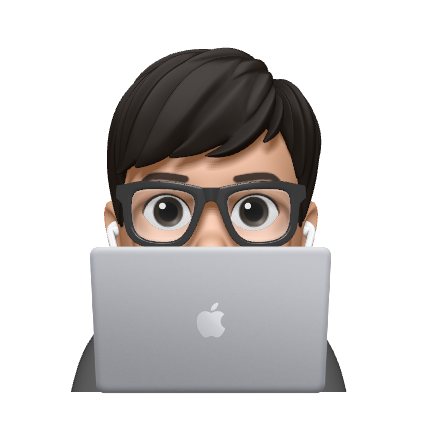
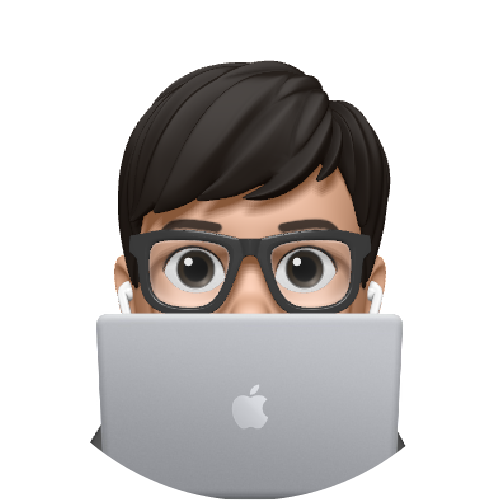
theme improvements

diff --git a/components/index/HeaderSection.js b/components/index/HeaderSection.js
@@ -27,7 +27,7 @@ function HeaderSection() {
             as="h6"
             variant="pronouns"
             opacity={0.9}
-            color={useColorModeValue('purple.600', 'teal.200')}
+            color={useColorModeValue('purple.600', '#FF7B82')}
             _hover={{ animation }}
           >
             he/him/his
@@ -38,9 +38,9 @@ function HeaderSection() {
         </Box>
         <Box flexShrink={0} mt={{ base: 4, md: 0 }} ml={{ md: 6 }} align="center">
           <Image
-            borderColor="whiteAlpha.800"
-            backgroundColor={useColorModeValue('purple.100', 'teal.100')}
-            borderWidth={4}
+            borderColor={useColorModeValue('white', "#FEF6E5")}
+            backgroundColor={useColorModeValue('purple.100', 'red.200')}
+            borderWidth={6}
             borderStyle="solid"
             maxWidth="160px"
             display="inline-block"
@@ -53,7 +53,7 @@ function HeaderSection() {
               transform: 'scale(1.05)',
               boxShadow: 'xl',
               transition: '250ms',
-              borderColor: useColorModeValue('purple.300', 'teal.400'),
+              borderColor: useColorModeValue('purple.300', 'red.300'),
             }}
           />
         </Box>
@@ -61,7 +61,7 @@ function HeaderSection() {
       <Box
         borderRadius="lg"
         // TODO: See if this is good
-        bg={useColorModeValue('rgba(121, 96, 206, 0.3)', 'rgba(56,178,172, 0.3)')}
+        bg={useColorModeValue('rgba(121, 96, 206, 0.3)', '#FEF6E511')}
         fontSize={16}
         p={3}
         mb={6}

diff --git a/components/grid-item.js b/components/grid-item.js
@@ -107,11 +107,11 @@ export const ProjectsGridItemIndex = ({ id, title, desc, thumbnail, sourcelink, 
         ) : (
           <NextLink href={sourcelink} passHref>
             <Link
-              color={useColorModeValue('purple.500', 'teal.200')}
+              color={useColorModeValue('purple.500', 'red.300')}
               transitionDuration="500ms"
               textDecoration="none"
               _hover={{
-                color: useColorModeValue('purple.100', 'teal.100'),
+                color: useColorModeValue('purple.100', 'red.200'),
                 transitionDuration: '500ms',
                 textDecoration: 'underline',
                 textUnderlineOffset: 3,
@@ -129,10 +129,10 @@ export const ProjectsGridItemIndex = ({ id, title, desc, thumbnail, sourcelink, 
         ) : (
           <NextLink href={bloglink} passHref>
             <Link
-              color={useColorModeValue('purple.500', 'teal.200')}
+              color={useColorModeValue('purple.500', 'red.300')}
               textDecoration="none"
               _hover={{
-                color: useColorModeValue('purple.100', 'teal.100'),
+                color: useColorModeValue('purple.100', 'red.200'),
                 transitionDuration: '500ms',
                 textDecoration: 'underline',
                 textUnderlineOffset: 3,

diff --git a/components/nav.js b/components/nav.js
@@ -23,10 +23,10 @@ import ThemeButton from './theme-button'
 
 function LinkItem({ href, path, children }) {
   const active = path === href
-  const inactiveColor = useColorModeValue('gray200', 'whiteAlpha.900')
+  const inactiveColor = useColorModeValue('gray200', '#FEF6E5')
   const activeBackgroundColor = useColorModeValue(
     'rgba(121, 96, 206, 0.3)',
-    'rgba(56,178,172, 0.3)'
+    '#FF7B8230'
   )
   return (
     <NextLink href={href}>
@@ -41,7 +41,7 @@ function LinkItem({ href, path, children }) {
         _hover={{
           transform: 'scale(1.1)',
           opacity: useColorModeValue(0.6, 1),
-          color: useColorModeValue('purple', 'teal.300'),
+          color: useColorModeValue('purple', '#FE5B5E'),
         }}
       >
         {children}
@@ -111,10 +111,10 @@ function Navbar(props) {
             _hover={{
               transform: 'scale(1.1)',
               opacity: useColorModeValue(0.6, 1),
-              color: useColorModeValue('purple', 'teal.200'),
+              color: useColorModeValue('purple', '#FE5B5E'),
               transition: '250ms ease-in-out',
             }}
-            color={useColorModeValue('gray200', 'whiteAlpha.900')}
+            color={useColorModeValue('gray200', '#FEF6E5')}
           >
             Resume
           </Link>

diff --git a/components/index/ContactSection.js b/components/index/ContactSection.js
@@ -15,10 +15,9 @@ function SocialLinks({ icon, platform, href = '#', id }) {
           letterSpacing="1.2px"
           textTransform="uppercase"
           ml={2}
-          opacity={0.8}
-          color={useColorModeValue('purple.800', 'teal.200')}
+          color={useColorModeValue('#37352F', '#FEF6E5')}
         >
-          {platform}
+          {platform}:
         </Text>
         <NextLink href={href} passHref>
           <Link
@@ -48,7 +47,9 @@ function ContactSection() {
         variant="section-title"
         mt="45px"
         mb="20px"
-        textDecorationColor={useColorModeValue('rgba(121, 96, 206, 0.3)', 'rgba(56,178,172, 0.5)')}
+        textDecorationThickness={1.5}
+        textUnderlineOffset={3}
+        textDecorationColor={useColorModeValue('rgba(121, 96, 206, 0.3)', '#FE5B5E80')}
       >
         Socials
       </Heading>

diff --git a/components/linkButton.js b/components/linkButton.js
@@ -9,12 +9,12 @@ const LinkButton = ({ children, link }) => (
         variant="new-tab-action"
         rightIcon={<ChevronRightIcon />}
         _hover={{
-          bgColor: useColorModeValue('rgba(121, 96, 206, 0.5)', 'rgba(56,178,172, 0.5)'),
+          bgColor: useColorModeValue('rgba(121, 96, 206, 0.5)', '#FE5B5E80'),
           transform: 'scale(1.05)',
           boxShadow: `lg`,
         }}
-        bgColor={useColorModeValue('rgba(121, 96, 206, 0.3)', 'rgba(56,178,172, 0.3)')}
-        borderColor={useColorModeValue('rgba(121, 96, 206, 0.4)', 'rgba(56,178,172, 0.4)')}
+        bgColor={useColorModeValue('rgba(121, 96, 206, 0.3)', '#FE5B5E4D')}
+        borderColor={useColorModeValue('rgba(121, 96, 206, 0.4)', '#FE5B5E66')}
       >
         {children}
       </Button>

diff --git a/components/index/ExperienceSection.js b/components/index/ExperienceSection.js
@@ -44,7 +44,7 @@ function ExItem() {
     <>
       <Box p={2}>
         <Center>
-          <ExpText activeIndex={index} testIndex={0} text="Hover icons for more" />
+          <ExpText activeIndex={index} testIndex={0} text="Click/Hover icons for more" />
           <ExpText
             activeIndex={index}
             testIndex={1}
@@ -92,7 +92,7 @@ export function ExperienceSection() {
         variant="pronouns"
         textDecor="underline"
         textUnderlineOffset={4}
-        textDecorationColor={useColorModeValue('rgba(121, 96, 206, 0.3)', 'rgba(56,178,172, 0.5)')}
+        textDecorationColor={useColorModeValue('rgba(121, 96, 206, 0.3)', '#FE5B5E80')}
         textAlign="center"
         fontSize={14}
       >

diff --git a/libs/theme.js b/libs/theme.js
@@ -6,7 +6,7 @@ const styles = {
   global: props => ({
     body: {
       bg: mode('#FAFAFA', '#191919')(props),
-      color: mode('#37352F', '#E1E1E1')(props),
+      color: mode('#37352F', '#FEF6E5')(props),
     },
   }),
 }
@@ -53,7 +53,7 @@ const components = {
   },
   Link: {
     baseStyle: props => ({
-      color: mode('#3D7AED', '#FF63C3')(props), // TODO: Change link colors here
+      color: mode('#3D7AED', 'red.300')(props), // TODO: Change link colors here
       textUnderlinOffset: 3,
     }),
   },

diff --git a/components/index/FeaturedProjectsSection.js b/components/index/FeaturedProjectsSection.js
@@ -11,7 +11,9 @@ function FeaturedProjectSection() {
         as="h3"
         variant="section-title"
         mt="45px"
-        textDecorationColor={useColorModeValue('rgba(121, 96, 206, 0.3)', 'rgba(56,178,172, 0.5)')}
+        textDecorationThickness={1.5}
+        textUnderlineOffset={3}
+        textDecorationColor={useColorModeValue('rgba(121, 96, 206, 0.3)', '#FE5B5E80')}
       >
         Featured Projects
       </Heading>

diff --git a/components/social.js b/components/social.js
@@ -15,7 +15,7 @@ const SocialIcon = ({ icons, link, size = 16 }) => (
                 transform: 'translate(0px, -2px)',
               }}
               bgColor="transparent"
-              color={useColorModeValue('#000', '#fff')}
+              color={useColorModeValue('#000', '#FEF6E5')}
               opacity={0.5}
               transition="250ms"
             >

diff --git a/components/subtitle.js b/components/subtitle.js
@@ -6,7 +6,7 @@ const Subtitle = ({ children }) => (
     mt={12}
     letterSpacing={1.4}
     fontWeight="bold"
-    color={useColorModeValue('#805AD5', '#ED64A6')}
+    color={useColorModeValue('#805AD5', '#FE5B5E')}
     textTransform="uppercase"
   >
     {children}

diff --git a/components/title.js b/components/title.js
@@ -4,7 +4,7 @@ const Title = ({ children }) => (
   <Heading
     as="h3"
     fontSize={36}
-    color={useColorModeValue('#37352F', 'white')}
+    color={useColorModeValue('#37352F', '#FEF6E5')}
     mt={2}
     mb={8}
     letterSpacing={-1}
